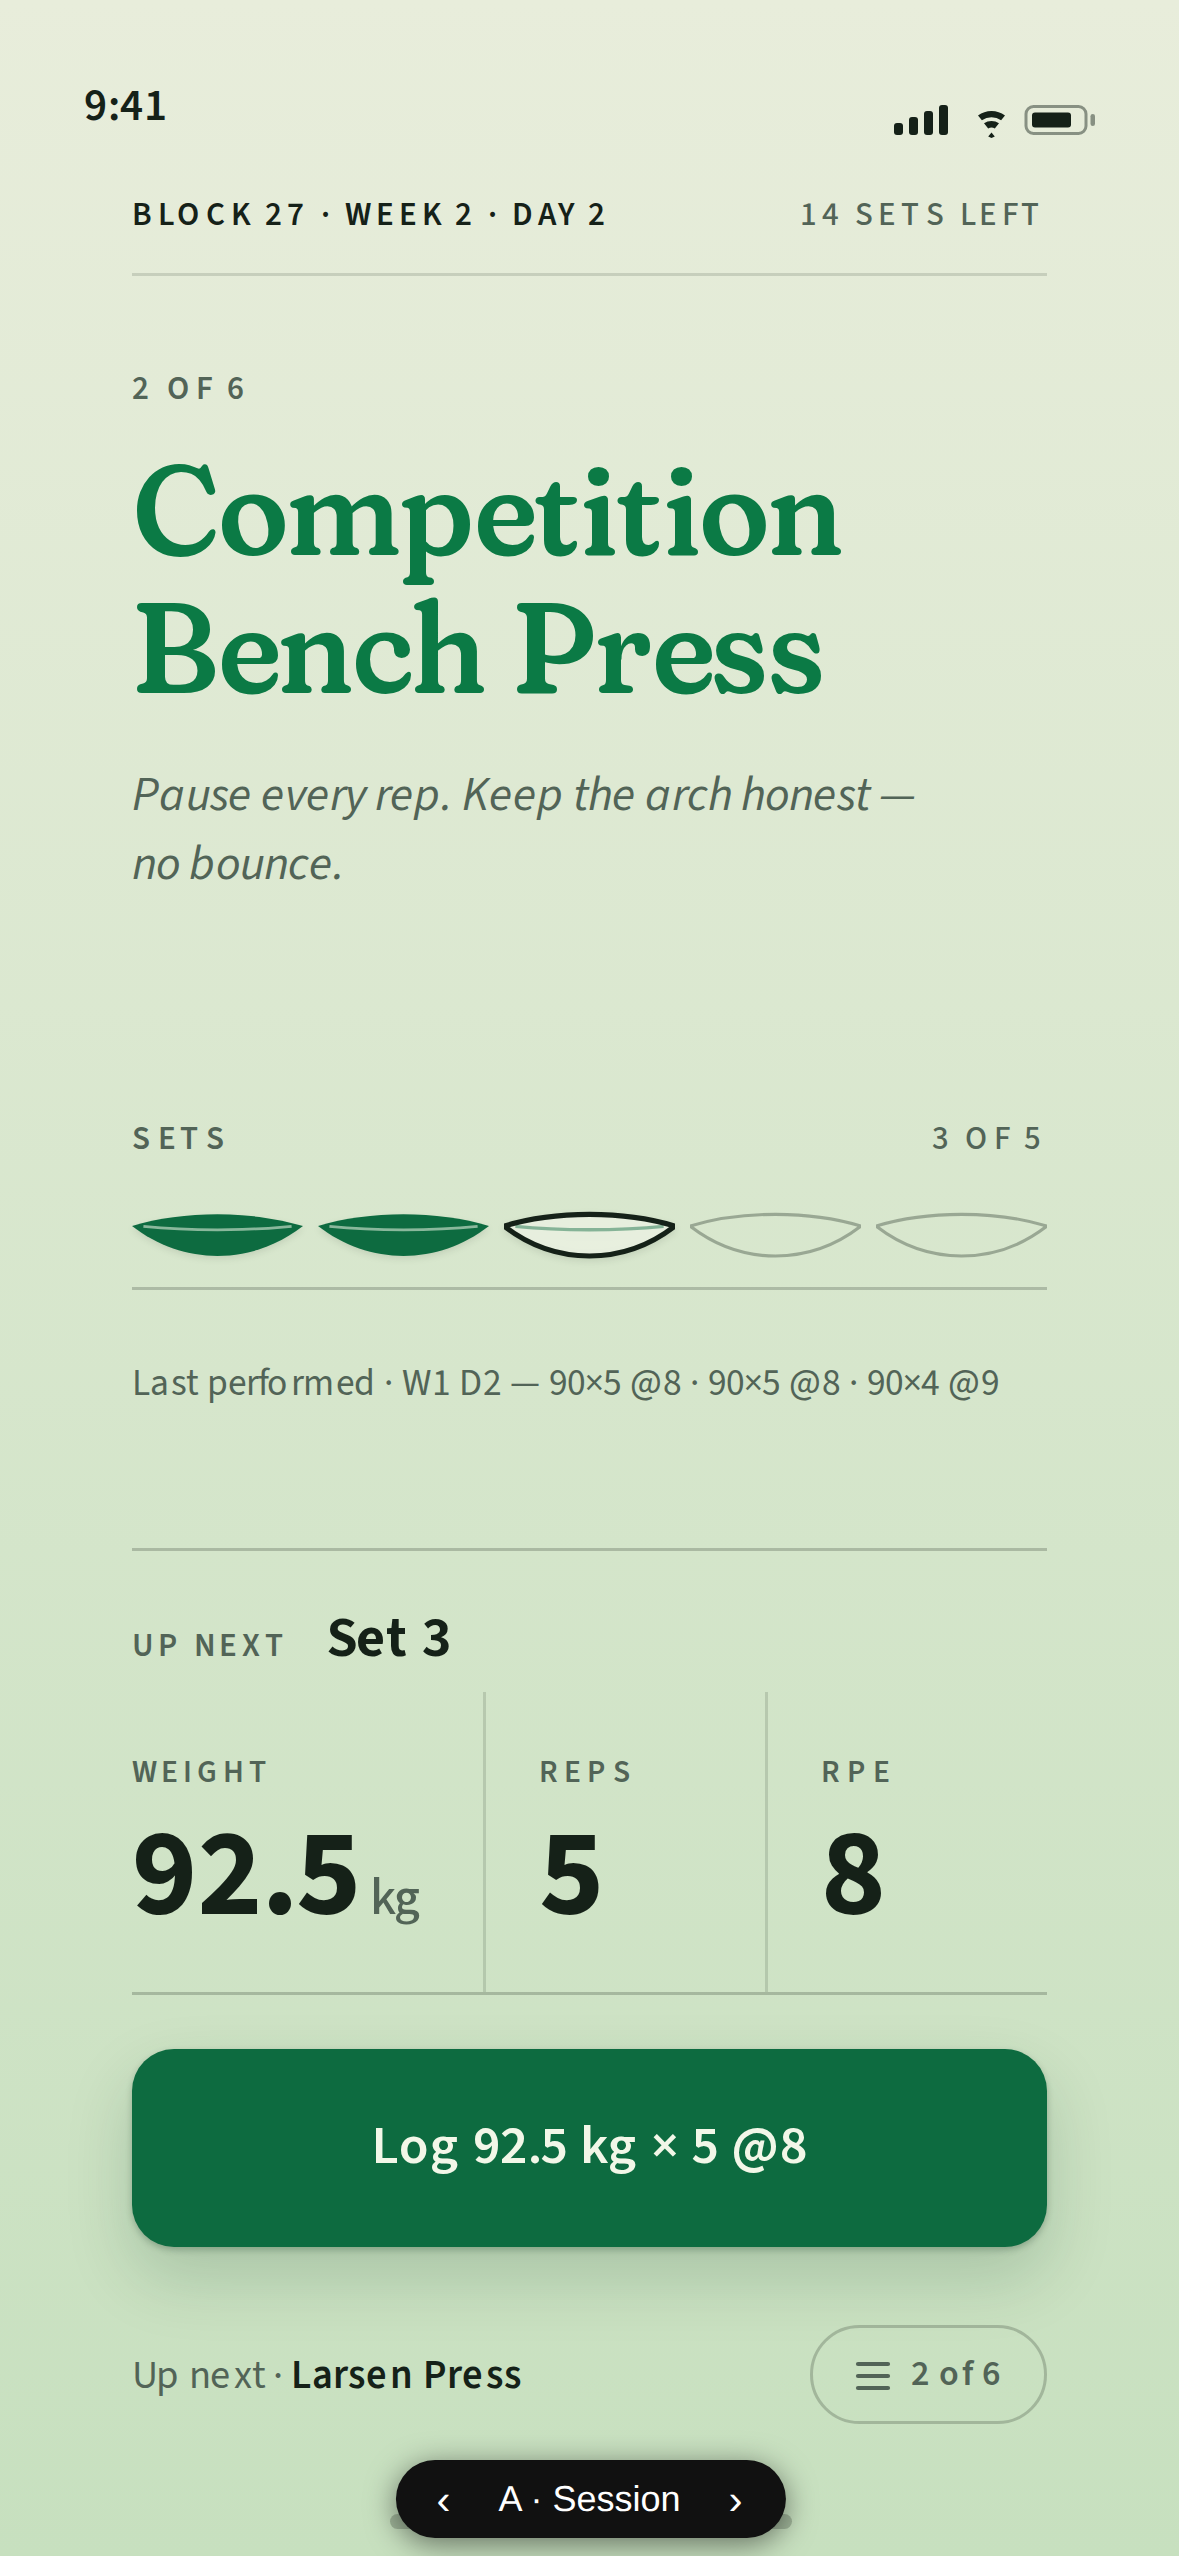
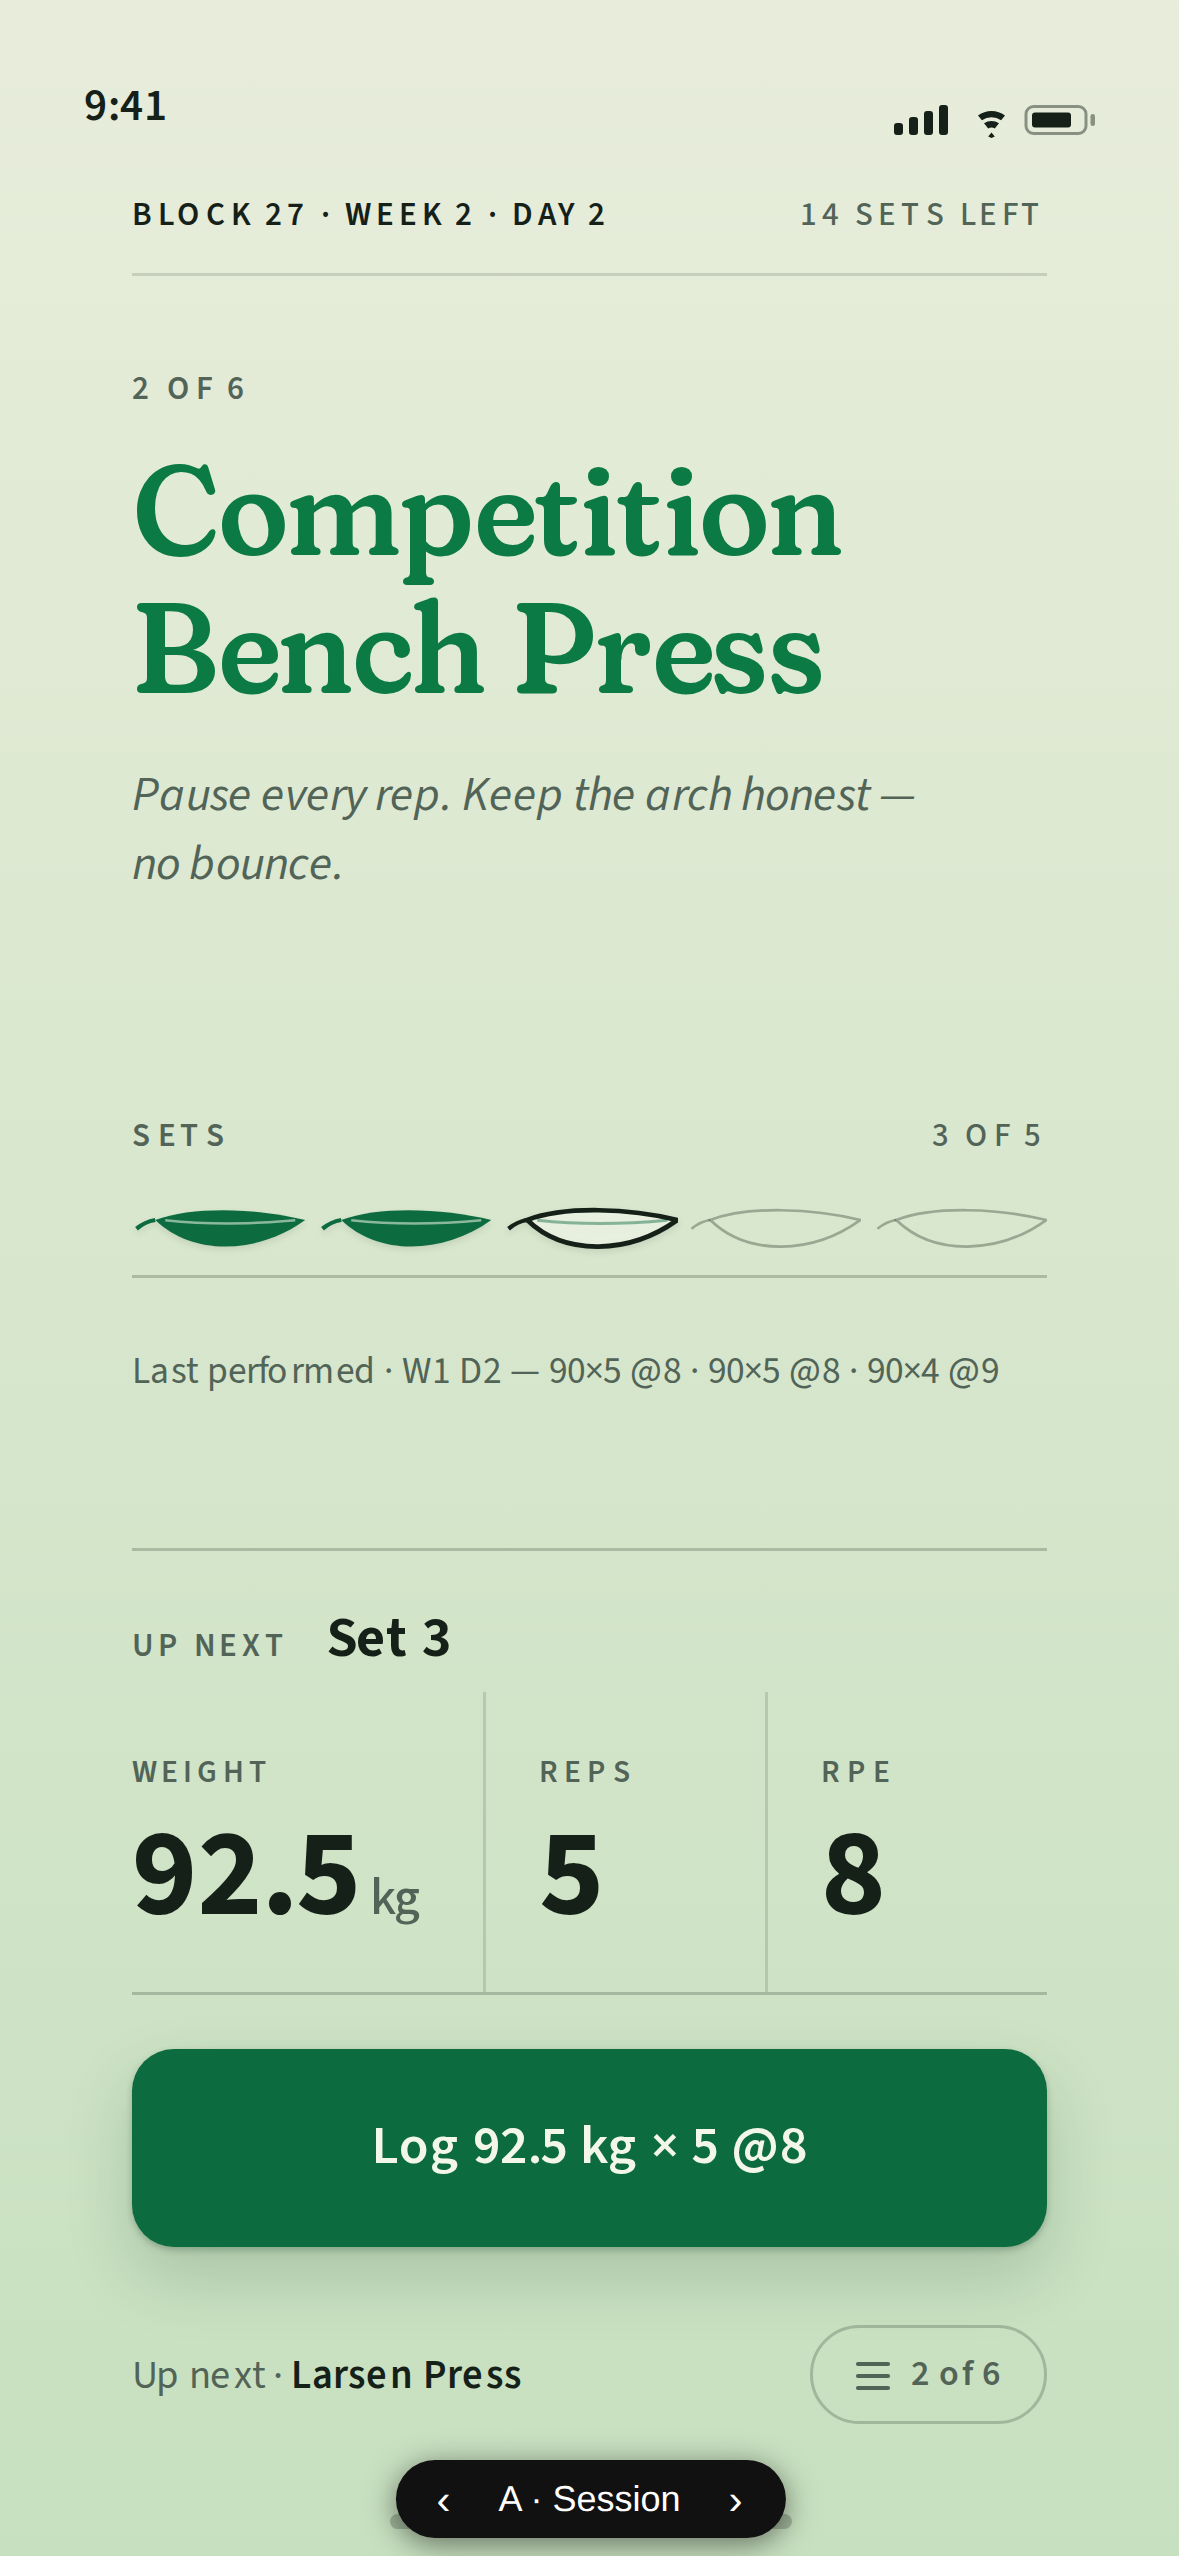
Finalize Sunlit Ledger hybrid prototype (wayfinder #411)
Final pass: petiole stubs and asymmetric leaf blades on the Set rail,
anchored rail microlabel, growth-ceremony stem refinements.

Claude-Session: https://claude.ai/code/session_01KB34Xx2TimsfR6Ef31tfwz

diff --git a/docs/design/direction-prototypes/sunlit-ledger.html b/docs/design/direction-prototypes/sunlit-ledger.html
@@ -381,9 +381,10 @@ h1.exercise {
 <!-- shared leaf geometry: pointed cusps, taut upper contour, fuller lower contour -->
 <svg width="0" height="0" style="position:absolute" aria-hidden="true">
   <defs>
-    <path id="leafShape" d="M0 8 C 18 2.5, 42 2.5, 60 8 C 42 22, 18 22, 0 8 Z"/>
-    <path id="leafRib" d="M4 8.1 C 20 9.7, 40 9.7, 56 8.1" fill="none"/>
-    <clipPath id="halfClip"><rect x="0" y="0" width="31" height="24"/></clipPath>
+    <!-- widest point off-center (toward the base) so it reads leaf, not lozenge -->
+    <path id="leafShape" d="M0 8 C 15 2.3, 41 3.3, 60 8 C 41 21.7, 15 22.6, 0 8 Z"/>
+    <path id="leafRib" d="M4 8.1 C 20 9.8, 40 9.6, 56 8.1" fill="none"/>
+    <path id="leafStem" d="M0 8 C -2.5 8.4, -5 9.4, -7.5 11.5" fill="none"/>
   </defs>
 </svg>
 
@@ -409,30 +410,35 @@ h1.exercise {
   <h1 class="exercise">Competition Bench&nbsp;Press</h1>
   <p class="coach-note">Pause every rep. Keep the arch honest — no&nbsp;bounce.</p>
 
-  <div class="flex-grow"></div>
+  <div class="flex-grow" style="flex:0.9"></div>
 
   <div class="rail-head">
     <span class="microlabel muted">Sets</span>
     <span class="microlabel muted num" style="font-weight:500">3 of 5</span>
   </div>
   <div class="leaf-rail" aria-label="Set 3 of 5">
-    <span class="slot done"><svg width="57" height="23" viewBox="0 0 60 24">
+    <span class="slot done"><svg width="58" height="20" viewBox="-9 0 69 24">
+      <use href="#leafStem" stroke="#0D6B40" stroke-width="1.7"/>
       <use href="#leafShape" fill="#0D6B40"/>
       <use href="#leafRib" stroke="rgba(242,247,232,0.55)" stroke-width="1"/>
     </svg></span>
-    <span class="slot done"><svg width="57" height="23" viewBox="0 0 60 24">
+    <span class="slot done"><svg width="58" height="20" viewBox="-9 0 69 24">
+      <use href="#leafStem" stroke="#0D6B40" stroke-width="1.7"/>
       <use href="#leafShape" fill="#0D6B40"/>
       <use href="#leafRib" stroke="rgba(242,247,232,0.55)" stroke-width="1"/>
     </svg></span>
-    <span class="slot current"><svg width="57" height="23" viewBox="0 0 60 24">
+    <span class="slot current"><svg width="58" height="20" viewBox="-9 0 69 24">
+      <use href="#leafStem" stroke="#152118" stroke-width="1.7"/>
       <use href="#leafShape" fill="rgba(242,247,232,0.75)"/>
       <use href="#leafRib" stroke="rgba(13,107,64,0.45)" stroke-width="1.2"/>
-      <use href="#leafShape" fill="none" stroke="#152118" stroke-width="1.8"/>
+      <use href="#leafShape" fill="none" stroke="#152118" stroke-width="1.9"/>
     </svg></span>
-    <span class="slot future"><svg width="57" height="23" viewBox="0 0 60 24">
+    <span class="slot future"><svg width="58" height="20" viewBox="-9 0 69 24">
+      <use href="#leafStem" stroke="rgba(21,33,24,0.32)" stroke-width="1.1"/>
       <use href="#leafShape" fill="none" stroke="rgba(21,33,24,0.32)" stroke-width="1.1"/>
     </svg></span>
-    <span class="slot future"><svg width="57" height="23" viewBox="0 0 60 24">
+    <span class="slot future"><svg width="58" height="20" viewBox="-9 0 69 24">
+      <use href="#leafStem" stroke="rgba(21,33,24,0.32)" stroke-width="1.1"/>
       <use href="#leafShape" fill="none" stroke="rgba(21,33,24,0.32)" stroke-width="1.1"/>
     </svg></span>
   </div>
